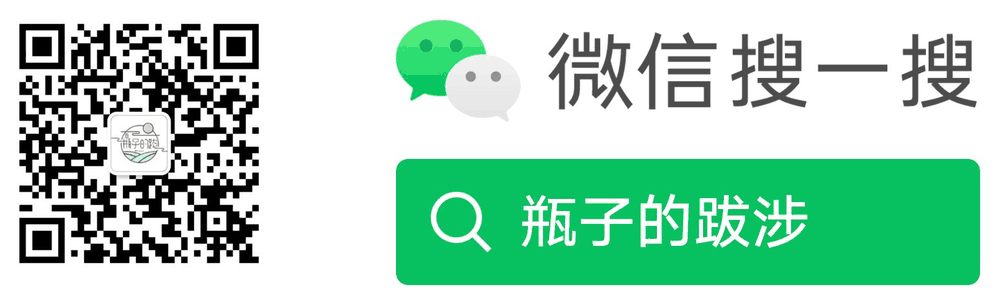
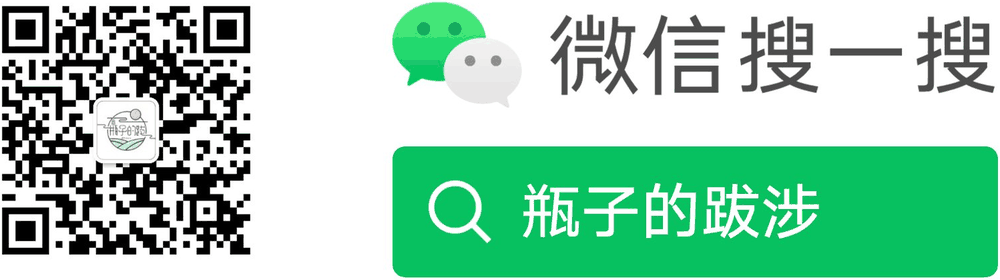
面板留白均匀化，卡片副标题改为瓶子的跋涉
- wechat-card.png 重新裁切：按内容包围盒只留 2px 余量，去掉图片自带的 7% 白边，1000x305 -> 1000x280
- index.css: .wx-pop 加 padding 8px（四周留白改由面板统一提供）；.wx-shot 圆角 14px -> 7px 与面板同心
- 效果：四周留白由「左8/上10/右2/下13」变为四边一律 8px，右上角标题不再贴边
- 二维码仍为 95x95，静默区 8px 不变（4 模块需 11.5px，已在下限附近，故不再继续裁）
- index.html: img 尺寸同步为 1000x280；卡片 .c-host 由「微信搜一搜」改为「瓶子的跋涉」
- 资源版本 v=11 -> v=12；README 补裁切口径与静默区约束

diff --git a/index.html b/index.html
@@ -138,7 +138,7 @@
   </script>
 
   <!-- ?v= 用于缓存击穿：每次改动样式/脚本后把版本号 +1，避免浏览器/预览拿到旧文件 -->
-  <link rel="stylesheet" href="index.css?v=11">
+  <link rel="stylesheet" href="index.css?v=12">
 </head>
 <body>
 
@@ -599,11 +599,11 @@
         </span>
 
         <span class="c-name">公众号</span>
-        <span class="c-host">微信搜一搜</span>
+        <span class="c-host">瓶子的跋涉</span>
 
         <!-- 悬浮 / 点击展开的导引图（白色的「扫码 · 搜索联合传播样式」） -->
         <span class="wx-pop" id="wxTip" role="tooltip">
-          <img class="wx-shot" src="wechat-card.png" width="1000" height="305" decoding="async"
+          <img class="wx-shot" src="wechat-card.png" width="1000" height="280" decoding="async"
                alt="微信搜一搜「瓶子的跋涉」：扫码关注，或在微信里按名称搜索">
         </span>
       </div>
@@ -632,6 +632,6 @@
   </div>
 </noscript>
 
-<script src="index.js?v=11"></script>
+<script src="index.js?v=12"></script>
 </body>
 </html>

diff --git a/index.css b/index.css
@@ -714,7 +714,9 @@ html[data-theme="night"] .card-wx .orb .wx-mark-back { fill: #C9D4DE; }
   left: auto;
   right: 0;
   bottom: calc(100% + 11px);
+  /* 宽度不变，8px padding 让导引图四周得到均匀留白（图片本身已裁掉自带白边） */
   width: min(400px, calc(100vw - 28px));
+  padding: 8px;
   border-radius: 14px;
   /* 导引图是「白色版」联合传播样式，昼夜都保持浅底，否则二维码扫不出来 */
   background: #FFFFFF;
@@ -732,8 +734,8 @@ html[data-theme="night"] .card-wx .orb .wx-mark-back { fill: #C9D4DE; }
               visibility .26s;
 }
 
-/* 导引图铺满整个浮层 */
-.wx-shot { display: block; width: 100%; height: auto; border-radius: 14px; }
+/* 导引图铺满浮层内容区，内圆角比面板小一个 padding 的差值，视觉上同心 */
+.wx-shot { display: block; width: 100%; height: auto; border-radius: 7px; }
 
 /* 透明「接桥」：填满浮层与卡片之间的空隙，避免指针移向二维码时浮层因失焦而消失 */
 .wx-pop::before {

diff --git a/README.md b/README.md
@@ -29,7 +29,7 @@ index.js              # 主题切换 / 一言 / 视差 / 涟漪 / viewBox 自适
 favicon.svg           # 内联矢量图标（漂流瓶）
 apple-touch-icon.png  # iOS 主屏图标 180×180
 og-cover.png          # 社交分享卡片 1200×630
-wechat-card.png       # 「扫码 · 搜索联合传播样式（白色版）」导引图 1000×305（公众号卡片悬浮显示）
+wechat-card.png       # 「扫码 · 搜索联合传播样式（白色版）」导引图 1000×280（已裁掉自带白边）
 robots.txt            # 抓取规则
 sitemap.xml           # 站点地图
 ```
@@ -58,6 +58,9 @@ sitemap.xml           # 站点地图
   > 品牌绿 `#07C160` 是四张卡片里唯一的非橙/金色，有意为之：本卡片是公众号入口。若要回到单色体系，把 `.card-wx .orb .wx-mark-*` 的两条 `fill` 改为 `currentColor` 即可。
 
 - 浮层内容就是那张参考图本身（`wechat-card.png`），不再拼装 HTML。卡片自带白色底，「白色版」样式在昼夜都保持浅底，否则二维码扫不出来。
+- **导引图按内容包围盒裁到只剩 2px 余量**，自带白边全部去掉；四周留白改由 `.wx-pop` 的 `padding: 8px` 统一提供。这样四边留白完全均匀 —— 改前是「左 8 / 上 10 / 右 2 / 下 13」，右上角标题几乎贴边，看起来像被裁掉；改后四边一律 8px。
+
+  > 为什么不把白边裁到 0：二维码四周的白是**静默区**（标准要求 4 个模块）。按实测模块 ~2.88px 算，至少需要 ~11.5px，当前 8px padding + 图片余量 ≈ 9px，已是可接受的下限，再裁就会影响扫码。
 
 | 交互 | 行为 |
 | --- | --- |
